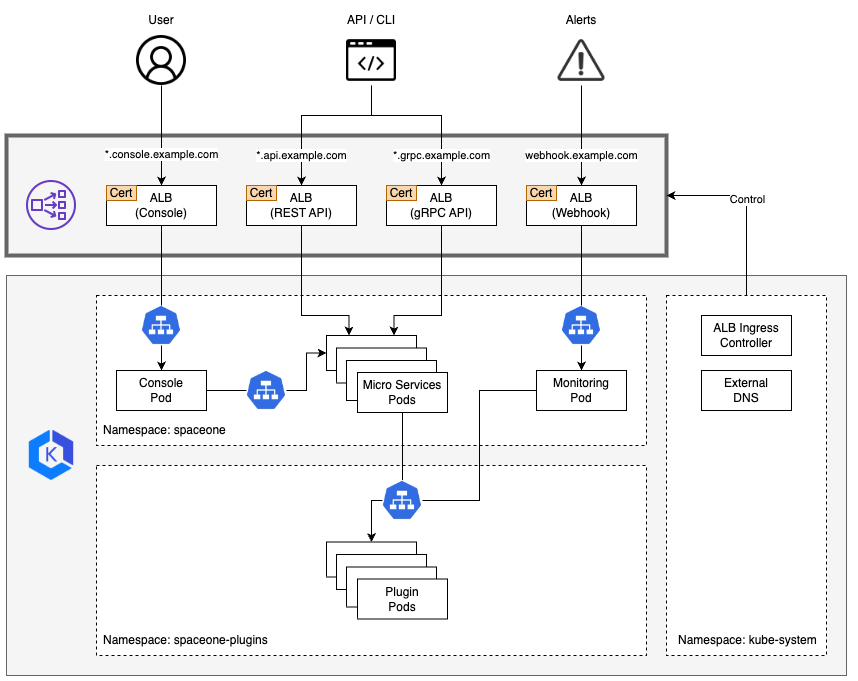
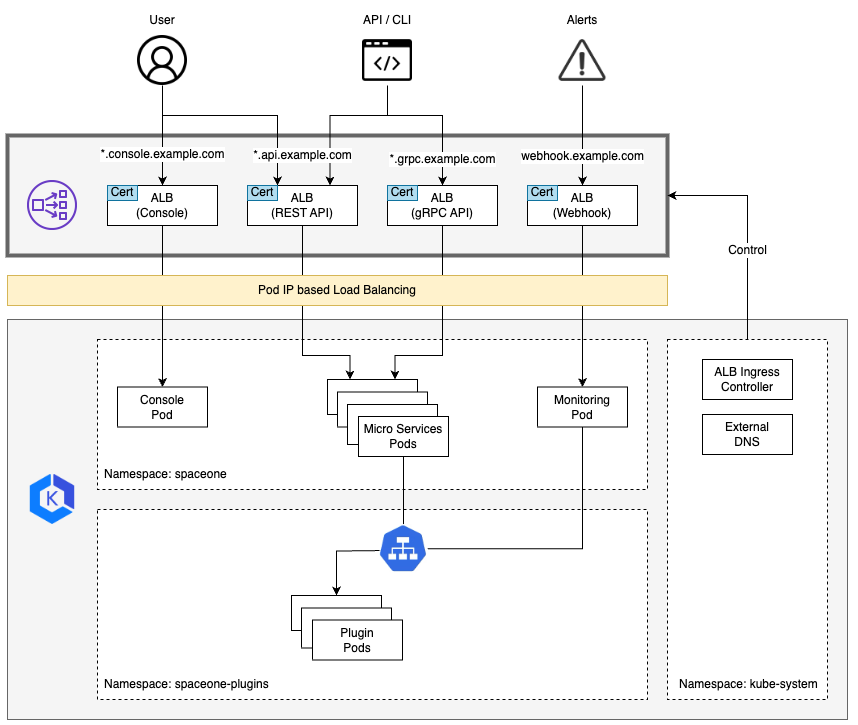
feat: update aws architecture

diff --git a/docs/ingress/aws.md b/docs/ingress/aws.md
@@ -1,6 +1,9 @@
 ## AWS Architecture
 ![AWS Architecture](images/aws_architecture.png)
 
+If you want to learn more about the **_Pod IP based Load Balancing_**, please refer to the following link.
+- Traffic Modes in [Application load balancing on Amazon EKS](https://docs.aws.amazon.com/eks/latest/userguide/alb-ingress.html) 
+
 ## Configuration
 You can create the ingress using the following steps.
 
